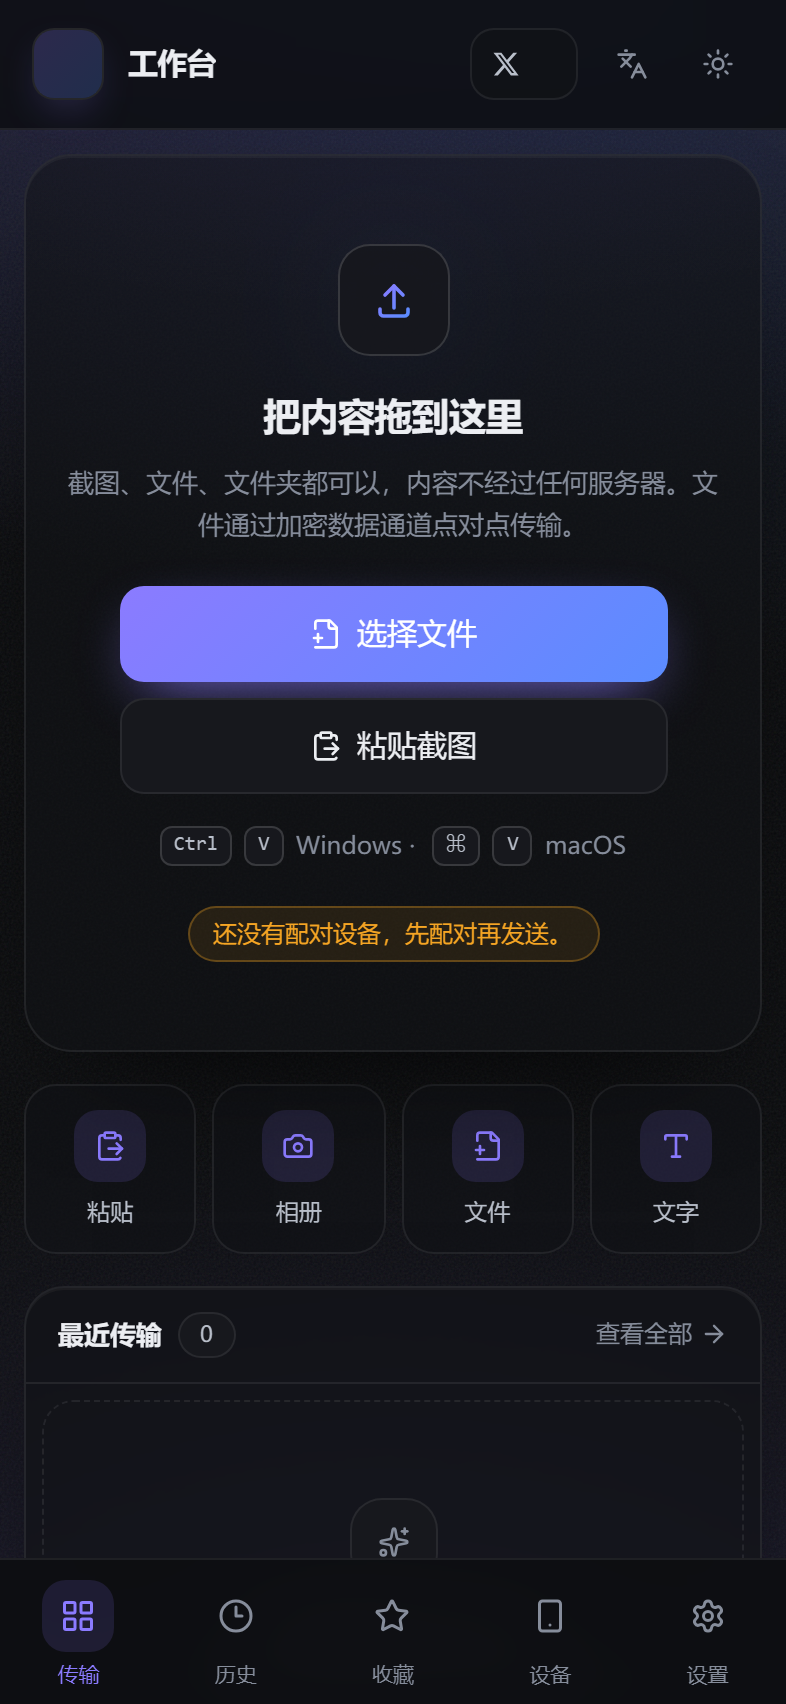
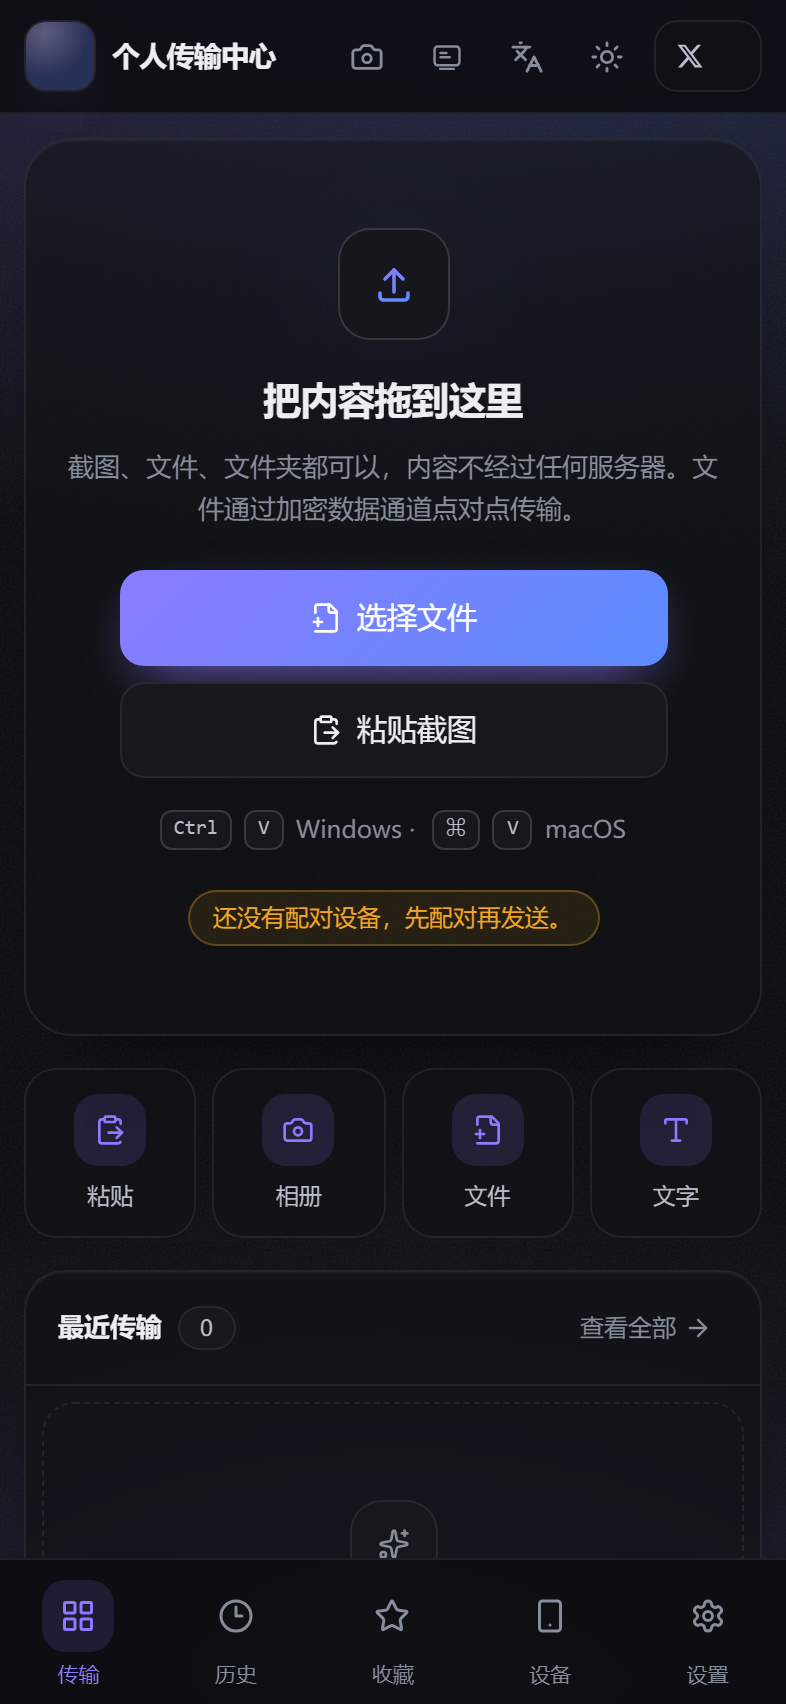
DROPZONE 1.0.0 — local-first P2P transfer workspace
React + Vite + Tailwind UI, WebRTC data-channel transfer engine with
64 KiB chunking and incremental SHA-256 verification, ECDSA device
identity with one-time QR pairing, Dexie local history, protocol v1
signaling relay (Node + Cloudflare Worker) and coturn config.

diff --git a/README.md b/README.md
@@ -77,6 +77,7 @@ What DROPZONE is not: it is not a cloud drive, not a backup service, and not a f
 
 - 📋 **Ctrl/⌘ + V image paste** — paste one or many screenshots; original bytes are preserved (no re-encode, no JPEG round-trip).
 - 🖱 **Drag & drop** — drop files or whole selections onto the workspace; the queue previews thumbnails before sending.
+- 📸 **Built-in capture** — the camera button grabs a photo on phones and the screenshot button captures a window or the whole screen on desktop (`getDisplayMedia`), so no second app is needed; both land straight in the send queue as PNG.
 - 📁 **File picker** — multi-select, arbitrary size, streamed through chunks rather than buffered per file.
 - ⌨ **Text / clipboard sending** — send a snippet or a note; it arrives as a selectable, copyable card.
 
@@ -140,6 +141,12 @@ What DROPZONE is not: it is not a cloud drive, not a backup service, and not a f
   <img src="docs/screenshots/dashboard-zh.png" alt="DROPZONE interface in Simplified Chinese" width="640" />
   <img src="docs/screenshots/mobile-zh.png" alt="DROPZONE mobile interface in Simplified Chinese" width="196" />
 </p>
+
+<p align="center">
+  <img src="docs/screenshots/capture.png" alt="DROPZONE built-in screenshot and camera capture dialog" width="520" />
+</p>
+
+<p align="center"><em>Built-in capture — screen or camera, straight into the send queue.</em></p>
 
 <p align="center"><em>Same build, switched to 简体中文 from the top bar — no reload, no separate bundle.</em></p>
 
@@ -432,6 +439,7 @@ MIT © 2025 DROPZONE contributors (0xkillcoin). See [LICENSE](LICENSE).
 
 - 📋 **Ctrl/⌘ + V 粘贴图片**：一次可粘贴多张截图，保留原始字节，不做二次编码。
 - 🖱 **拖拽投放**：把文件或整批选择拖进工作区，发送前可预览缩略图与队列。
+- 📸 **内置截图/拍照**：手机端点相机按钮直接拍照，桌面端点截图按钮选择窗口或整屏（`getDisplayMedia`），无需任何第三方软件，PNG 直接进入待发送队列。
 - 📁 **文件选择器**：支持多选与大文件，按块流式发送。
 - ⌨ **文本 / 剪贴板发送**：直接发一段文字，对方收到可选中、可复制的卡片。
 - 🔳 **二维码一次性配对**：短时效、单次使用的令牌；没有共享密码，没有长期邀请链接。
